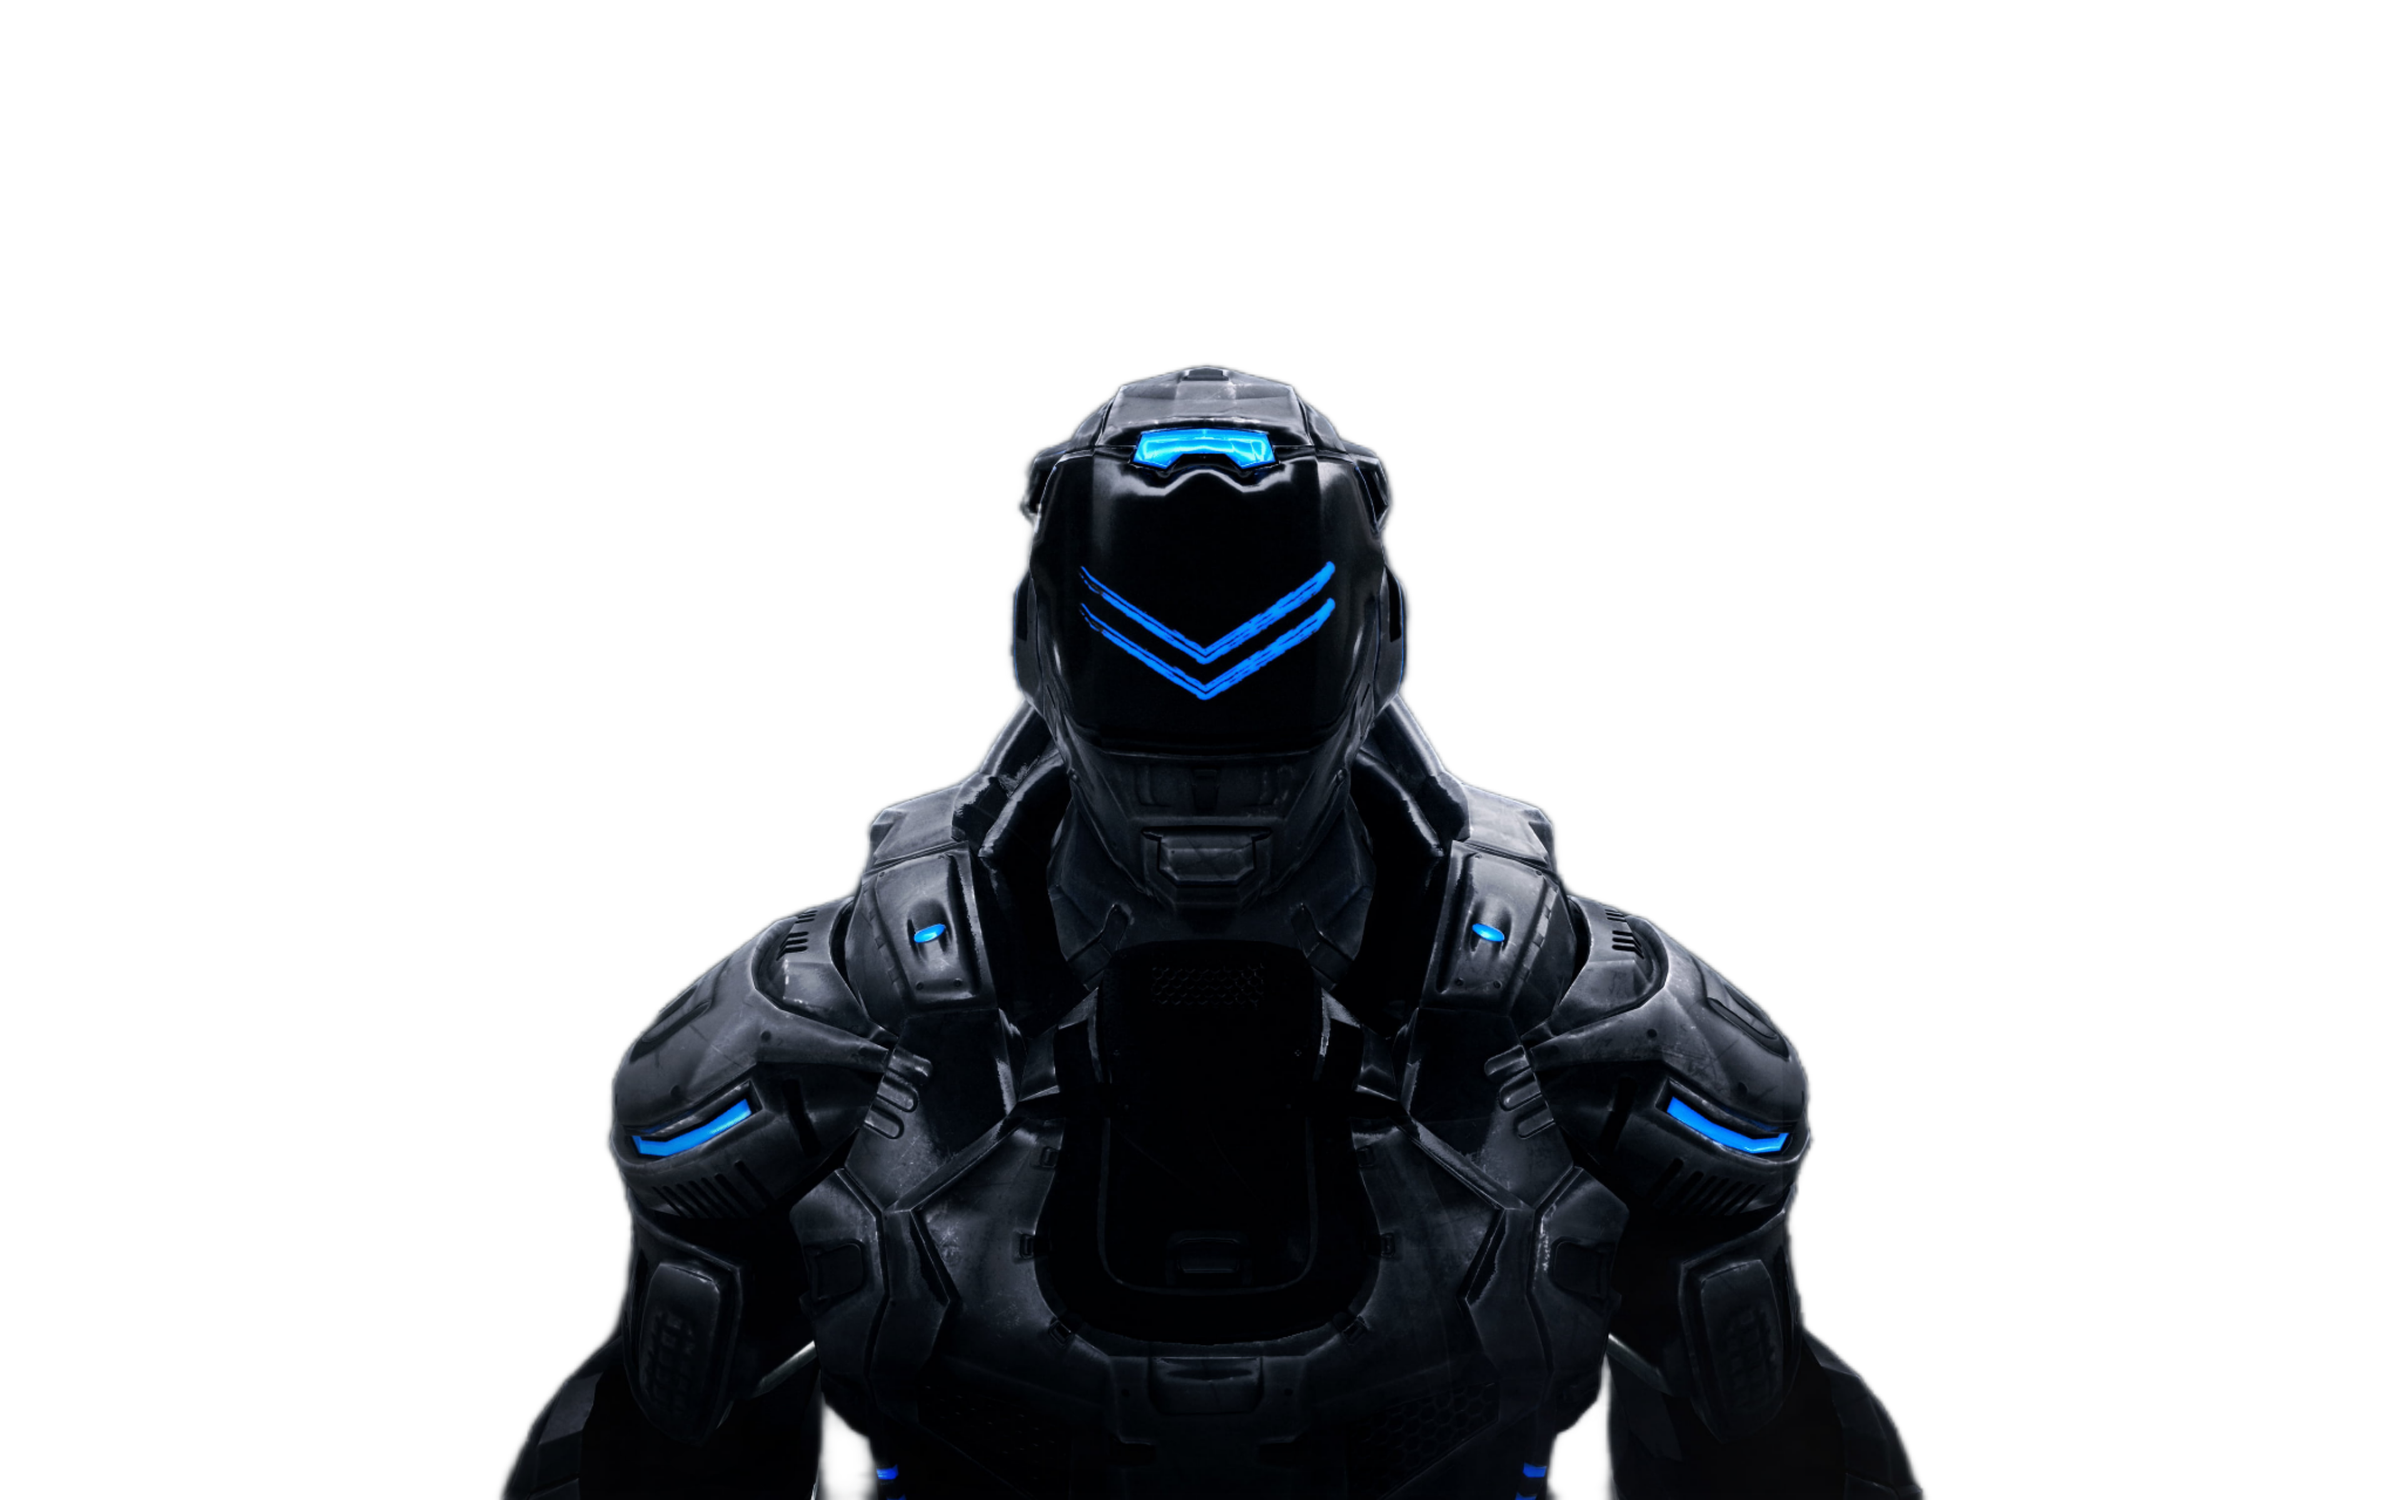
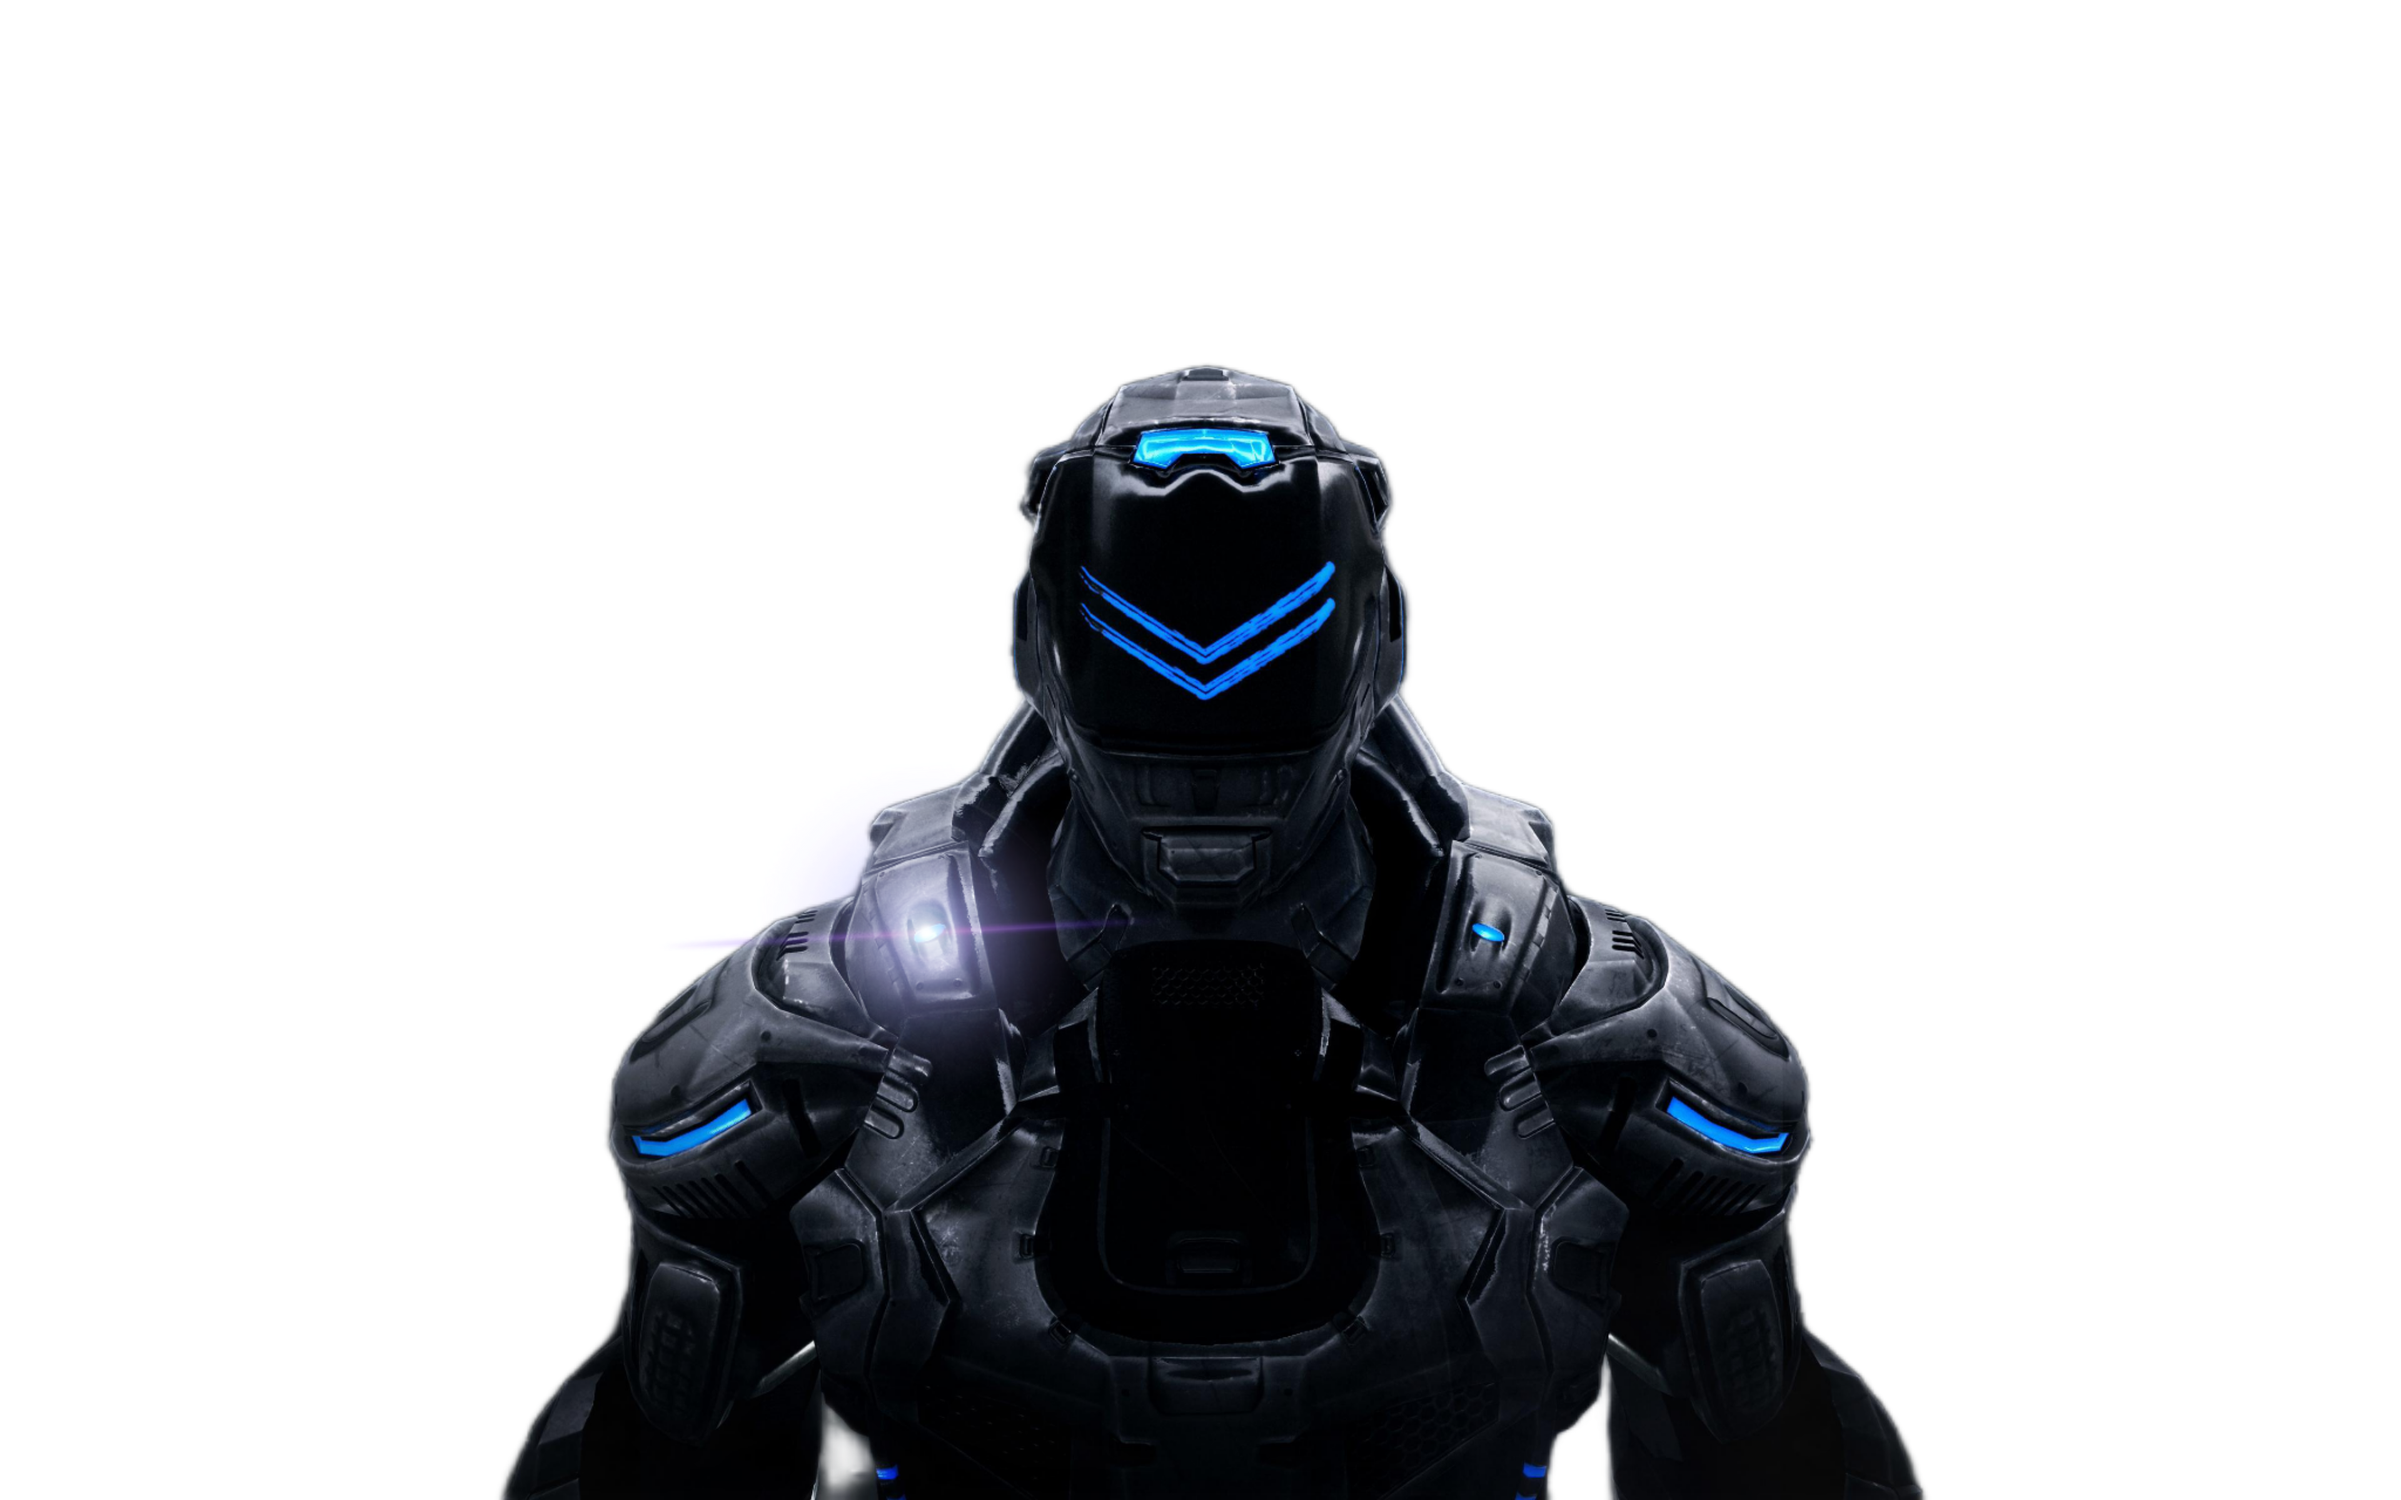
Changed bg and added title

Changed region(s): [[0.3125, 0.5312, 0.4688, 0.7188], [0.3438, 0.9375, 0.375, 1.0]]

diff --git a/style.css b/style.css
@@ -91,9 +91,22 @@ header nav a:hover:after {
     left: 50%;
     transform: translate(-50%, -50%);
     color: white;
-    font-size: 150px;
+    font-size: 120px;
     text-shadow: 0px 0px 4px rgba(0, 0, 0, 0.25);
+    z-index: 1000;
 }
+
+.home .title1 {
+    position: absolute;
+    top: 20%;
+    left: 50%;
+    transform: translate(-50%, -50%);
+    color: rgb(62, 62, 206);
+    font-size: 40px;
+    text-shadow: 0px 0px 4px rgba(0, 0, 0, 0.25);
+    z-index: 1;
+}
+
 .about {
     padding: 50px;
     padding-top: 70px; /* Increase padding top for more space */
@@ -166,7 +179,7 @@ header nav a:hover:after {
     height: 350px;
     width: 350px;
     border-radius: 50%;
-    background: #787575;
+    background: transparent;
     border: 8px solid var(--clr);
     filter: drop-shadow(0 0 10px var(--clr))
     drop_shadow(0 0 60px var(--clr));

diff --git a/index.html b/index.html
@@ -18,8 +18,9 @@
   </header>
 
   <section id="home" class="home">
-    <img src="assets/bg.png" class="logo1" />
-    
+    <img src="assets/bg1.png" class="logo1" />
+    <img src="assets/bg2.png" class="logo2" />
+    <h1 class="title1">Department of CS Presents</h1>
     <h1 class="title">INCOGNITO</h1>
   </section>
 

diff --git a/script.js b/script.js
@@ -1,8 +1,9 @@
 const title = document.querySelector('.title');
-
+const title1 = document.querySelector('.title1');
 
 document.addEventListener('scroll', function() {
     let value = window.scrollY;
     title.style.marginTop = value * 1.1 + 'px';
+    title1.style.marginTop = value * 1.5 + 'px';
     
 });
